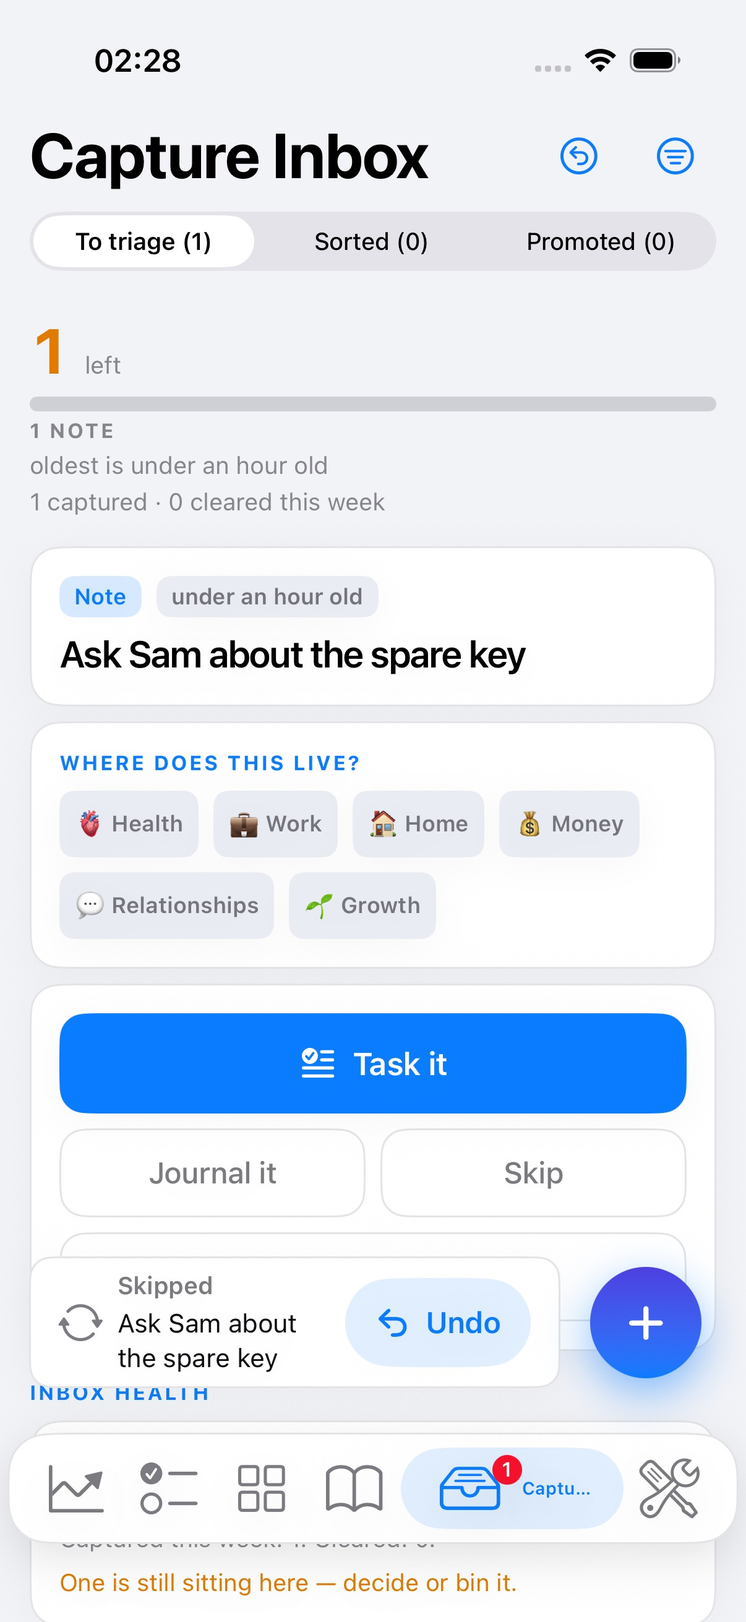
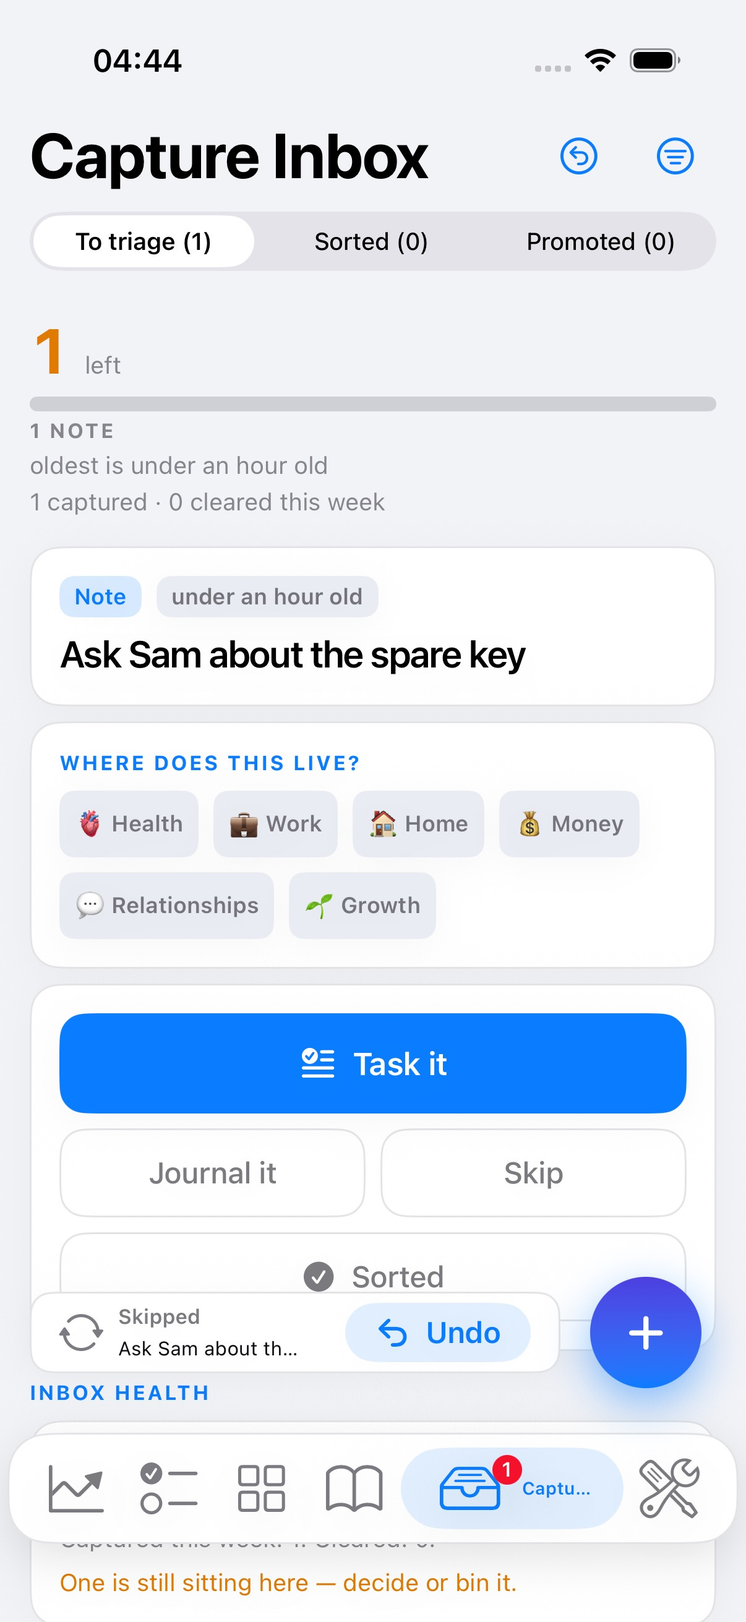
F-C1-UndoCapsule: E's height round — the capsule is 44pt, two lines a size smaller
E measured the shipped capsule against the capture disc: "it looks ugly with the
UndoCapsule at the same height as the FAB Icon", and marked a 45.3pt band against
74pt drawn (disc is 60).

45pt could not hold board 54's shape at its approved type sizes, so four shapes were
rendered on the real Tasks screen from one build and E chose "two lines, a size
smaller": the arrangement kept, verb .footnote -> .caption2, subject .callout ->
.footnote and one line. Card 44pt — also §3's touch floor and the search row's own
height, which it stands in for.

E also chose the Undo control's trade by name: "draw 32, tap 44". The pill draws at
32 and its hit area is grown back to 44 with the tab bar's own negative-padding
trick. This OVERRIDES round 7's 48pt for that one control and nothing else. The two
tests that pinned 48 are reversed, not deleted.

Suite 3,132 / 0, SwiftLint 0 / 842. Evidence re-rendered light/dark/AX3.

Claude-Session: https://claude.ai/code/session_01FW7xV1rwWjatGkoYuSkzgi

diff --git a/ADHD LifeOS/Undo/UndoCapsule.swift b/ADHD LifeOS/Undo/UndoCapsule.swift
@@ -127,7 +127,7 @@ struct UndoCapsule: View {
             VStack(alignment: .leading, spacing: UndoCapsuleMetrics.stackedSpacing) {
                 Label {
                     Text(action.kind.verb)
-                        .font(.footnote.weight(.semibold))
+                        .font(.caption2.weight(.semibold))
                         .foregroundStyle(Color("LabelSecondary"))
                 } icon: {
                     glyph
@@ -138,24 +138,31 @@ struct UndoCapsule: View {
         } else {
             HStack(spacing: UndoCapsuleMetrics.glyphSpacing) {
                 glyph
-                VStack(alignment: .leading, spacing: UndoCapsuleMetrics.verbToSubjectSpacing) {
-                    Text(action.kind.verb)
-                        .font(.footnote.weight(.semibold))
-                        .foregroundStyle(Color("LabelSecondary"))
-                        .lineLimit(1)
-                    subject
-                }
+                words
                 Spacer(minLength: UndoCapsuleMetrics.undoSpacing)
                 // **`layoutPriority`, and it is not belt-and-braces — the first render on the
                 // simulator showed "Un…".** In a tight `HStack` SwiftUI compresses whichever child
                 // will give, and with a two-line subject beside it the control that gave was the
                 // Undo button: the one thing in the capsule that must never be ambiguous. §1's
-                // Layout Safety rule names `.layoutPriority(1)` for exactly this. The subject
-                // takes the squeeze instead, which it is already dressed for — two lines and a
-                // 0.8 minimum scale.
+                // Layout Safety rule names `.layoutPriority(1)` for exactly this. The words take
+                // the squeeze instead, which they are already dressed for.
                 undoButton
                     .layoutPriority(1)
             }
+        }
+    }
+
+    /// E's chosen shape (height round, 2026-09-20): board `54`'s two lines, each a size smaller.
+    /// The verb was `.footnote` and the subject `.callout`; stepping both down is what lets the
+    /// card sit in the 44pt band without dropping either fact or wrapping the title.
+    private var words: some View {
+        VStack(alignment: .leading, spacing: UndoCapsuleMetrics.verbToSubjectSpacing) {
+            Text(action.kind.verb)
+                .font(.caption2.weight(.semibold))
+                .foregroundStyle(Color("LabelSecondary"))
+                .lineLimit(1)
+                .fixedSize(horizontal: true, vertical: false)
+            subject
         }
     }
 
@@ -170,9 +177,11 @@ struct UndoCapsule: View {
 
     private var subject: some View {
         Text(action.subject)
-            .font(.callout)
+            .font(.footnote)
             .foregroundStyle(Color("LabelPrimary"))
-            .lineLimit(2)
+            // ONE line since the height round: a title that wrapped made the card 74pt and one
+            // that did not made it ~52, so the capsule's height depended on the task's name.
+            .lineLimit(isStacked ? 2 : 1)
             .minimumScaleFactor(0.8)
             .fixedSize(horizontal: false, vertical: true)
     }
@@ -195,9 +204,16 @@ struct UndoCapsule: View {
                 // horizontal squeeze, not to the type.
                 .fixedSize(horizontal: true, vertical: false)
                 .padding(.horizontal, UndoCapsuleMetrics.undoHorizontalPadding)
-                .frame(minHeight: UndoCapsuleMetrics.undoMinHeight)
+                .frame(minHeight: UndoCapsuleMetrics.undoDrawnHeight)
                 .background(chipTint, in: Capsule(style: .continuous))
+                // **The tab bar's own trick, and it is what keeps §3 intact at 44pt.** The pill is
+                // DRAWN at 32 so the capsule can be the height E marked; the hit area is grown back
+                // to 44 with negative vertical padding around the `contentShape`, exactly as
+                // `AppTabBarMetrics.slotHitOverflow` does for a 44pt slot in a shorter card. The
+                // layout stays the pill's height; a tap a little above or below it still lands.
+                .padding(.vertical, UndoCapsuleMetrics.undoHitOverflow)
                 .contentShape(Capsule(style: .continuous))
+                .padding(.vertical, -UndoCapsuleMetrics.undoHitOverflow)
         }
         .buttonStyle(UndoCapsuleButtonStyle())
         // **The plain word, and it is deliberate.** The capsule is `.contain`, so VoiceOver reads

diff --git a/ADHD LifeOSTests/UndoCapsulePresentationTests.swift b/ADHD LifeOSTests/UndoCapsulePresentationTests.swift
@@ -61,12 +61,17 @@ final class UndoCapsulePresentationTests: XCTestCase {
 
     // MARK: - The geometry
 
-    /// Round 7: "48pt for anything that starts, closes, adds, undoes, ends or saves". Deliberately
-    /// NOT `AppSearchRowMetrics.fieldHeight` (44) — a taller metric for this one control, which is
-    /// why it is spelled separately rather than borrowed.
-    func testTheCapsuleIsFortyEightPointsTallAndNotTheSearchFieldsFortyFour() {
-        XCTAssertEqual(UndoCapsuleMetrics.minHeight, 48)
-        XCTAssertNotEqual(UndoCapsuleMetrics.minHeight, AppSearchRowMetrics.fieldHeight)
+    /// **Reversed by E's height round, 2026-09-20, not deleted.** It pinned 48 and *"deliberately
+    /// NOT the search field's 44"*. E measured the shipped capsule against the 60pt capture disc
+    /// and marked a 45.3pt band: *"it looks ugly with the UndoCapsule at the same height as the
+    /// FAB Icon."* So the capsule IS the search field's height now, and that is the point rather
+    /// than a coincidence — it stands in that row's slot, and 44 is also §3's touch floor.
+    func testTheCapsuleIsOneTouchTargetTallAfterEsHeightRound() {
+        XCTAssertEqual(UndoCapsuleMetrics.minHeight, 44)
+        XCTAssertEqual(
+            UndoCapsuleMetrics.minHeight, AppSearchRowMetrics.fieldHeight,
+            "The capsule stands in the search row's slot; matching its height is deliberate."
+        )
     }
 
     /// It stands in for the search row, so it wears the row's corner rather than inventing one —
@@ -76,10 +81,30 @@ final class UndoCapsulePresentationTests: XCTestCase {
         XCTAssertEqual(UndoCapsuleMetrics.cornerRadius, AppSearchRowMetrics.fieldCornerRadius)
     }
 
-    /// The Undo control itself is a 48pt target too — it is the reason the capsule exists, and
-    /// §3's floor is 44 with round 7 raising an action to 48.
-    func testTheUndoControlIsItselfAFortyEightPointTarget() {
-        XCTAssertEqual(UndoCapsuleMetrics.undoMinHeight, 48)
+    /// **Reversed with the height above, and the GUARANTEE is what survived.** Round 7's 48pt
+    /// cannot be drawn inside a 44pt band, and E chose the trade by name: *"Yes — draw 32, tap
+    /// 44"*. So the pill is drawn at 32 and its hit area is grown back to §3's 44 with the tab
+    /// bar's own negative-padding trick. A test that only checked the drawn height would pass on a
+    /// build where the target had quietly shrunk with it, which is the whole risk here.
+    func testTheUndoControlIsDrawnSmallerThanItsTapTargetAndTheTargetIsStillFortyFour() {
+        XCTAssertEqual(UndoCapsuleMetrics.undoDrawnHeight, 32)
+        XCTAssertEqual(
+            UndoCapsuleMetrics.undoDrawnHeight + 2 * UndoCapsuleMetrics.undoHitOverflow, 44,
+            "The drawn pill plus its overflow no longer reaches §3's 44pt touch floor."
+        )
+        XCTAssertEqual(UndoCapsuleMetrics.undoHitOverflow, 6)
+    }
+
+    /// The capsule is exactly one touch target tall, so the control inside it cannot be taller
+    /// than the card that holds it — which is what E was looking at when they said it read as the
+    /// same size as the disc.
+    func testTheDrawnControlFitsInsideTheCardWithItsPaddingToSpare() {
+        let spent = UndoCapsuleMetrics.undoDrawnHeight + 2 * UndoCapsuleMetrics.verticalPadding
+        XCTAssertLessThanOrEqual(
+            spent, UndoCapsuleMetrics.minHeight,
+            "The pill and the card's padding come to \(spent)pt, which would push the card past"
+                + " \(UndoCapsuleMetrics.minHeight)pt and undo E's height round."
+        )
     }
 
     /// Every padding the capsule spends is on §2's 4/8/16/24 grid. The two sanctioned off-grid

diff --git a/ADHD LifeOS/Undo/UndoCapsuleMetrics.swift b/ADHD LifeOS/Undo/UndoCapsuleMetrics.swift
@@ -11,17 +11,28 @@ import SwiftUI
 
 /// E's round-2b shape, as numbers.
 enum UndoCapsuleMetrics {
-    /// Round 7: *"48pt for anything that starts, closes, adds, undoes, ends or saves"*.
+    /// **44 since E's height round, 2026-09-20.** It shipped at 48 with a two-line `.callout`
+    /// subject, which drew a **74pt** card — E marked a **45.3pt** band on
+    /// `screenshots/undo-capsule/02-…-EDITED.jpg`: *"the UndoCapsule must be made smaller in
+    /// height, it looks ugly with the UndoCapsule at the same height as the FAB Icon."* (The
+    /// capture disc is 60.) E was shown four shapes rendered on the real screen and chose **two
+    /// lines, a size smaller** — board `54`'s arrangement kept, the type stepped down.
     ///
-    /// **A floor, not a frame, and deliberately NOT `AppSearchRowMetrics.fieldHeight` (44).** The
-    /// search field's 44 is §3's floor for a control that must never out-grow the capture disc;
-    /// this is a taller metric for the one control round 7 names, and it has to be able to grow —
-    /// a fixed height would clip the stacked layout at accessibility sizes.
-    static let minHeight: CGFloat = 48
+    /// **A floor, not a frame.** A fixed height would clip the stacked layout at accessibility
+    /// sizes. 44 is also §3's touch floor, so the capsule is itself exactly one touch target tall.
+    static let minHeight: CGFloat = 44
 
-    /// The Undo control's own target. It is the reason the capsule exists, so it takes round 7's
-    /// 48 rather than §3's 44 floor.
-    static let undoMinHeight: CGFloat = 48
+    /// What the Undo pill is DRAWN at. **Its TARGET is still 44** — see `undoHitOverflow`.
+    ///
+    /// Round 7's *"48pt for anything that … undoes"* cannot be drawn inside a 44pt band, and E
+    /// chose the trade explicitly over keeping the capsule tall: *"Yes — draw 32, tap 44"*. Round
+    /// 7's number was written for a control that owns its space; this one now sits inside one.
+    static let undoDrawnHeight: CGFloat = 32
+
+    /// The tab bar's own trick (`AppTabBarMetrics.slotHitOverflow`), applied here: negative
+    /// vertical padding around the `contentShape`, so the layout stays the pill's drawn height
+    /// while taps a little above and below it still land. §3's 44pt is kept without drawing 44pt.
+    static var undoHitOverflow: CGFloat { max(0, (44 - undoDrawnHeight) / 2) }
 
     /// It stands in for the search row, so it wears that row's corner rather than inventing one.
     /// A second radius in the same slot would read as a different control having replaced the row.
@@ -31,7 +42,8 @@ enum UndoCapsuleMetrics {
 
     /// The page margin, matching `AppSearchRow`'s own.
     static let horizontalPadding: CGFloat = 16
-    static let verticalPadding: CGFloat = 8
+    /// 4 since the height round — 8 top and bottom is a fifth of E's whole band.
+    static let verticalPadding: CGFloat = 4
     /// Asset-to-text: the glyph and the verb beside it.
     static let glyphSpacing: CGFloat = 8
     /// Micro positioning: the verb over the subject it names.

diff --git a/ADHD LifeOSUITests/UITestSession.swift b/ADHD LifeOSUITests/UITestSession.swift
@@ -68,11 +68,16 @@ enum UITestSession {
     /// for the one seed that exists and why it is spelled the way it is.
     @MainActor
     static func launchSignedIn(
-        as account: UITestAccount, launchArguments: [String] = []
+        as account: UITestAccount, launchArguments: [String] = [], environment: [String: String] = [:]
     ) throws -> XCUIApplication {
         let email = account.email
         resetToPortrait()
         let app = XCUIApplication()
+        // A render harness needs a switch the app reads before its first body, and the argument
+        // domain proved unreliable for it (`UndoCapsuleRenderUITests` records both attempts).
+        for (key, value) in environment {
+            app.launchEnvironment[key] = value
+        }
         // This is what keeps the journey off the live project. `launchEnvironment` becomes the
         // app process's environment, and `FirebaseEmulatorSettings.resolve()` reads it at
         // `FirebaseManager` init — before any Firestore call can happen.

diff --git a/handoff/OPEN-ITEMS-REGISTER.md b/handoff/OPEN-ITEMS-REGISTER.md
@@ -1,4 +1,26 @@
-# Open items register — 2026-09-20 (sixty-eighth edition; **the ADHD audit's first block is BUILT**: `F-C1-UndoCapsule` — one undo capsule in the disc row for every close — merged, suite 3,130 / 0, SwiftLint 0 / 842. **The first app Swift the audit has produced.**) Opener: `handoff/START-HERE-adhd-audit-arc-C2.md`, which builds `F-C2-DraftsToInbox`. *(Edition 67's header, superseded: Open items register — 2026-09-19 (sixty-seventh edition; **the ADHD / neurodivergent UX audit is CLOSED**: session 3 ran rounds 7b–10, collected Decision A, and specced **all 31 FEATURE blocks** across seven arcs in `TODO-CLAUDE-CODE.md`. **No Swift changed in the whole audit — three sessions of records, evidence and specs.**) Opener: `handoff/START-HERE-adhd-audit-arc-C.md`, which builds arc C. *(Edition 66's header, superseded: # Open items register — 2026-09-19 (sixty-sixth edition; **the ADHD / neurodivergent UX audit, session 2: options rounds 2–7 DONE** (drafts, undo, Recently Deleted, Today = one card, the sprint, the hero, composers, targets) plus E's nine Today ideas; every answer verbatim in `handoff/SESSION-OPENER-adhd-ux-audit-design.md`. **No Swift changed.** Handed off at round 7b by E's call at 60% context.) Opener: `handoff/START-HERE-adhd-ux-audit-rounds-7b-to-10.md`. *(Edition 65's header, superseded: Open items register — 2026-09-19 (sixty-fifth edition; **E opened the ADHD / neurodivergent UX audit** — research, E's ten answers, a full iPhone 18 Pro / iOS 27.0 simulator audit (~80 findings, 51 frames) and options round 1. **No Swift changed.** Handed off at round 1 by E's call.) Opener: `handoff/START-HERE-adhd-ux-audit-rounds.md`.)*)*)*
+# Open items register — 2026-09-20 (sixty-ninth edition; **`F-C1-UndoCapsule` built, landed, then RESIZED on E's call**: the capsule went 74pt → **44pt** — *"it looks ugly with the UndoCapsule at the same height as the FAB Icon"* — with E choosing the shape and the Undo control's draw-32/tap-44 trade from real renders. Suite 3,132 / 0, SwiftLint 0 / 842.) Opener: `handoff/START-HERE-adhd-audit-arc-C2.md`. **E's phone must be RECONNECTED — the device look is owed and has never happened.** *(Edition 68's header, superseded: Open items register — 2026-09-20 (sixty-eighth edition; **the ADHD audit's first block is BUILT**: `F-C1-UndoCapsule` — one undo capsule in the disc row for every close — merged, suite 3,130 / 0, SwiftLint 0 / 842. **The first app Swift the audit has produced.**) Opener: `handoff/START-HERE-adhd-audit-arc-C2.md`, which builds `F-C2-DraftsToInbox`. *(Edition 67's header, superseded: Open items register — 2026-09-19 (sixty-seventh edition; **the ADHD / neurodivergent UX audit is CLOSED**: session 3 ran rounds 7b–10, collected Decision A, and specced **all 31 FEATURE blocks** across seven arcs in `TODO-CLAUDE-CODE.md`. **No Swift changed in the whole audit — three sessions of records, evidence and specs.**) Opener: `handoff/START-HERE-adhd-audit-arc-C.md`, which builds arc C. *(Edition 66's header, superseded: # Open items register — 2026-09-19 (sixty-sixth edition; **the ADHD / neurodivergent UX audit, session 2: options rounds 2–7 DONE** (drafts, undo, Recently Deleted, Today = one card, the sprint, the hero, composers, targets) plus E's nine Today ideas; every answer verbatim in `handoff/SESSION-OPENER-adhd-ux-audit-design.md`. **No Swift changed.** Handed off at round 7b by E's call at 60% context.) Opener: `handoff/START-HERE-adhd-ux-audit-rounds-7b-to-10.md`. *(Edition 65's header, superseded: Open items register — 2026-09-19 (sixty-fifth edition; **E opened the ADHD / neurodivergent UX audit** — research, E's ten answers, a full iPhone 18 Pro / iOS 27.0 simulator audit (~80 findings, 51 frames) and options round 1. **No Swift changed.** Handed off at round 1 by E's call.) Opener: `handoff/START-HERE-adhd-ux-audit-rounds.md`.)*)*)*)*
+
+> ## Edition 69 in five lines (2026-09-20, the capsule's height round)
+>
+> - **The capsule is 44pt now, not 74.** E marked a 45.3pt band on the evidence folder's own frame
+>   against a 60pt capture disc. Four shapes were rendered on the real Tasks screen from one build
+>   (`screenshots/undo-capsule-height/`) and E chose **two lines, a size smaller** — board `54`'s
+>   arrangement kept, verb `.caption2`, subject `.footnote` on one line.
+> - **Round 7's "48pt for anything that … undoes" is overridden for the Undo control, by E's
+>   explicit choice** (*"Yes — draw 32, tap 44"*). The pill is drawn at 32 and its hit area grown
+>   back to §3's 44 with `AppTabBarMetrics.slotHitOverflow`'s negative-padding trick. **This covers
+>   that one control and nothing else.** Two tests that pinned 48 were reversed, not deleted.
+> - **THE DEVICE LOOK IS STILL OWED, and it is now the next session's first job.** E chose the new
+>   size from renders; nothing has been on the phone, and E's phone is currently DISCONNECTED.
+>   The RM-on pass (§7.3) is owed with it — ask for both in one message.
+> - **Two render rounds were lost to a switch the app never received**: a launch argument starting
+>   with `-` is parsed as a UserDefaults key expecting a value, and `xcodebuild`'s environment does
+>   not reach the test runner (the same thing defeated this block's AX3 pass). Both look identical —
+>   every variant renders the default. One test method per variant is the fix.
+> - **Suite 3,132 / 0, SwiftLint 0 / 842**, build green. Evidence re-rendered at the new height in
+>   light, dark and AX3; the two landscape frames are suffixed `-PRE-HEIGHT-ROUND` and still show
+>   the 74pt capsule, because what they prove is the ARRANGEMENT, which the height does not change.
+
 
 > ## Edition 68 in six lines (2026-09-20, arc C block 1 — the audit starts shipping)
 >

diff --git a/handoff/START-HERE-adhd-audit-arc-C2.md b/handoff/START-HERE-adhd-audit-arc-C2.md
@@ -28,14 +28,24 @@ in context and memory into the new session."* Nothing below needs re-deciding.
 
 ## 1. THE FIRST THING TO DO, before writing any code
 
+**E's phone is DISCONNECTED and must be reconnected — say so in your first message.** It was
+unplugged during the height round below, and nothing has been on it.
+
 **E has not seen `F-C1-UndoCapsule` on the phone.** It is merged and green but nothing has been on
 a device. Two passes are owed and they must be asked for **in one message** so E flips the setting
 only once (§7.3):
 
 > Reduce Motion **OFF**: close a task from Tasks, from Today's hero, from a life area and from task
-> detail; dismiss a nudge; triage a capture. Does the capsule read right, and does Undo take it back?
-> Then Reduce Motion **ON** (Settings → Accessibility → Motion): the capsule should **fade** in and
-> out, never cut. The inbox's old bar used to slide up from the bottom; that slide is gone.
+> detail; dismiss a nudge; triage a capture. Is the 44pt capsule the right height on the real
+> screen, and does Undo take it back? Then Reduce Motion **ON** (Settings → Accessibility →
+> Motion): the capsule should **fade** in and out, never cut. The inbox's old bar used to slide up
+> from the bottom; that slide is gone.
+
+**The capsule was RESIZED after the block landed** (E's height round, 2026-09-20): 74pt → **44pt**,
+two lines a size smaller, and the Undo pill drawn at 32 with its tap target held at 44. E chose
+both by looking at renders, not on the device — so the device look is the first real test of the
+new size. If it sends the shape back, that is a fresh session's job, not this one's (memory:
+`build-in-a-fresh-session`).
 
 **Install the build BEFORE asking** (memory: `ask-for-device-checks-on-a-build-e-has` — "owed a
 device check" ≠ "it's on the phone"; asking without installing cost E a wasted look once already).
@@ -56,7 +66,12 @@ Three, and the first two will bite:
 2. **The capsule WRAPS the disc row's leading band** — `UndoCapsuleSlot { leadingBand }` in
    `RootBottomOverlay` — rather than sitting beside it. That is what makes it stand IN FOR the
    search row and the Journal pencil while the + disc never moves. Do not add a second occupant.
-3. **A visible change here can break a UI JOURNEY that the standard suite never runs.** `F-C1`
+3. **The capsule is 44pt and every number in it is E-approved** — `minHeight` 44,
+   `verticalPadding` 4, `undoDrawnHeight` 32 with `undoHitOverflow` 6 holding §3's target. **Do not
+   re-tune any of them**, and note that this one control overrides round 7's 48pt rule by E's
+   explicit choice. C2's draft bar is a `RecentActionKind` case in the same capsule, so it inherits
+   all of it.
+4. **A visible change here can break a UI JOURNEY that the standard suite never runs.** `F-C1`
    shipped with `SignedInJourneyUITests` broken and every gate green: the capsule NAMES what it
    would take back, so a sorted capture's own words are on screen immediately, and that journey
    waited app-wide for exactly those words to go. **Before you finish: `grep -rn "<any identifier
@@ -64,7 +79,7 @@ Three, and the first two will bite:
    (`-only-testing:"ADHD LifeOSUITests/<Suite>/<test>"`, emulator up, then `simctl erase`).
    The same episode also cost a `accessibilityLabel`: keep the Undo control's label the plain word
    "Undo", because that journey addresses it by label.
-4. **It is drawn in a tight `HStack`, so new content steals the control's width.** The first render
+5. **It is drawn in a tight `HStack`, so new content steals the control's width.** The first render
    showed the Undo button as "Un…". If C2's bar needs a second control ("Reopen" beside a dismiss,
    say), give it the same `.layoutPriority(1)` + `.fixedSize` treatment and **render it before
    believing it** — no unit test can see truncation.
@@ -73,6 +88,11 @@ Three, and the first two will bite:
 `RecentActionRecording`, `UndoCapsule`, `UndoCapsuleMetrics`). A new kind is a case on
 `RecentActionKind` plus its verb, glyph and tint — `UndoCapsulePresentationTests` will make you say
 what all three are.
+
+**And one more trap that cost two render rounds:** a switch the app never receives. A launch
+argument beginning with `-` is parsed as a UserDefaults key expecting a value, and `xcodebuild`'s
+own environment does not reach the TEST RUNNER. Both failures look identical — every variant
+renders the default. **One test method per variant** is the fix; a method name cannot be swallowed.
 
 ## 4. What this session must NOT do
 

diff --git a/TODO-CLAUDE-CODE.md b/TODO-CLAUDE-CODE.md
@@ -5497,6 +5497,35 @@ tier considered (`AccessibilityNotification.Announcement`, iOS 17+) was declined
 only a priority. No `firestore.rules` change: soft delete is arc C3's, and this block's writes are
 the already-permitted task status and nudge stamp fields.
 
+
+**E's HEIGHT ROUND, 2026-09-20 — after the block had landed.** E looked at the evidence folder and
+marked a band on `02-…-EDITED.jpg`: *"the UndoCapsule must be made smaller in height, it looks ugly
+with the UndoCapsule at the same height as the FAB Icon."* Measured: the red lines are **45.3pt**
+against a capsule drawn at **74pt** and a 60pt capture disc.
+
+45pt could not hold the shape E approved on board `54` — the verb line, the gap and two lines of
+`.callout` subject are ~62pt of text before padding, and the Undo pill's own 48pt floor was taller
+than the whole band. So four shapes were rendered on the real Tasks screen from one build
+(`screenshots/undo-capsule-height/`) and **E chose "two lines, a size smaller"**: board 54's
+arrangement kept, verb `.footnote` → `.caption2`, subject `.callout` → `.footnote` and ONE line.
+The card is **44pt**, which is also §3's touch floor and the search row's own height — it stands in
+that slot, so matching it is deliberate rather than a coincidence.
+
+**E also chose the Undo control's trade by name — *"Yes — draw 32, tap 44"*.** The pill is drawn at
+32pt and its hit area is grown back to §3's 44pt with the tab bar's own negative-padding trick
+(`AppTabBarMetrics.slotHitOverflow`). **This overrides round 7's "48pt for anything that … undoes"
+for this one control**, and only for it: round 7's number was written for a control that owns its
+space, and this one now sits inside a 44pt band. The two tests that pinned 48 were REVERSED, not
+deleted, and the one that matters now asserts the drawn height plus its overflow still reaches 44 —
+a test that only checked the drawn size would pass on a build where the target shrank with it.
+
+**Two harness traps cost a render round each, and both are the same trap:** a switch the app never
+received. `-undoShape-oneLine` is swallowed because a leading `-` makes iOS expect a value after
+the key; `xcodebuild`'s own environment does not reach the TEST RUNNER, which is what silently
+defeated the AX3 pass earlier in this block too. Every run photographed the default and measured an
+identical 74pt. The fix both times: **one test method per variant** — a method name cannot be
+swallowed.
+
 ---
 
 ### FEATURE: F-C2-DraftsToInbox — unsent text goes to the inbox; Cancel becomes Close; task detail autosaves  [ ] NOT STARTED

diff --git a/screenshots/undo-capsule/README.md b/screenshots/undo-capsule/README.md
@@ -1,5 +1,25 @@
 # `F-C1-UndoCapsule` — the undo capsule, on every surface it appears on
 
+> **Re-rendered 2026-09-20 after E's HEIGHT ROUND.** The first set drew the capsule at **74pt**
+> against a 60pt capture disc. E marked a **45.3pt** band on
+> `02-tasks-capsule-stands-in-for-search-L-EDITED.jpg` — *"the UndoCapsule must be made smaller in
+> height, it looks ugly with the UndoCapsule at the same height as the FAB Icon"* — and, shown four
+> shapes rendered on the real screen (`../undo-capsule-height/`), chose **two lines, a size
+> smaller**: board `54`'s arrangement kept, verb `.footnote` → `.caption2`, subject `.callout` →
+> `.footnote`, subject to ONE line. The card is **44pt** now, which is also §3's touch floor and
+> the search row's own height — it stands in that slot, so matching it is deliberate.
+>
+> E also chose the Undo control's trade by name: *"Yes — draw 32, tap 44"*. The pill is drawn at
+> 32pt and its hit area is grown back to §3's 44pt with the tab bar's own negative-padding trick
+> (`AppTabBarMetrics.slotHitOverflow`). Round 7's *"48pt for anything that … undoes"* cannot be
+> drawn inside a 44pt band; that number was written for a control that owns its space.
+>
+> **Every `-L`, `-D` and `-AX3` frame below is the NEW height.** The two landscape frames are
+> suffixed `-PRE-HEIGHT-ROUND` and still show the 74pt capsule: what they prove is the
+> *arrangement* (`RootBottomOverlayLayout` puts the sprint card beside the disc row), which the
+> height does not change, and a shorter capsule only helps it. Re-rendering them is in the next
+> session's opener.
+
 **Environment:** iPhone 17 Pro simulator, iOS 26.5, Firebase **Emulator Suite** (the audit's
 exported state, `scripts/audit/emulator-state`), a throwaway account created by the harness,
 2026-09-20. Portrait frames are `app.screenshot()` attachments from

diff --git a/handoff/ADHD-AUDIT-BUILD-LOG.md b/handoff/ADHD-AUDIT-BUILD-LOG.md
@@ -192,7 +192,15 @@ stop, paste the real output, wait for E. Two blocks in a session means two revie
   `CaptureInboxService.clearLastTriageAction()` was left dead with a doc comment claiming a guard
   it did not have. **Every later arc-C block should grep `ADHD LifeOSUITests` for the identifiers
   and labels it changes, and RUN any journey it touches** — the suite will not.
-- **Next session starts at:** `F-C2-DraftsToInbox`, from `handoff/START-HERE-adhd-audit-arc-C2.md`.
+- **E's HEIGHT ROUND, after the block landed (same day).** E measured the shipped capsule against
+  the capture disc — *"it looks ugly with the UndoCapsule at the same height as the FAB Icon"* —
+  and marked a 45.3pt band against 74pt drawn. Four shapes were rendered on the real screen and E
+  chose **two lines, a size smaller** (44pt card) plus the Undo control's **draw 32 / tap 44**
+  trade, which overrides round 7's 48pt for that one control. Suite **3,132 / 0**.
+- **Owed to E, and it is the next session's FIRST job:** the device look and the RM-on pass, now on
+  the 44pt capsule. E's phone was disconnected during the height round and must be reconnected.
+- **Next session starts at:** the device look, then `F-C2-DraftsToInbox`, from
+  `handoff/START-HERE-adhd-audit-arc-C2.md`.
 
 ### Session 0 — 2026-09-19 · the audit (3 sessions), no build
 
